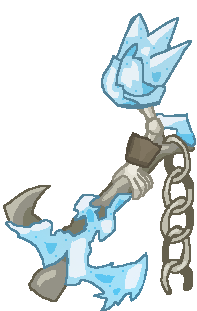
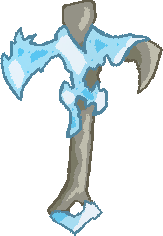
Updated anchor art and fixed networking bug.

diff --git a/NPCs/Rognir/RognirBossAnchor.cs b/NPCs/Rognir/RognirBossAnchor.cs
@@ -2,6 +2,7 @@
 using Microsoft.Xna.Framework.Graphics;
 using System;
 using System.Collections.Generic;
+using System.IO;
 using System.Linq;
 using System.Text;
 using System.Threading.Tasks;
@@ -17,11 +18,6 @@ namespace Rognir.NPCs.Rognir
 		private const float anchDashMaxSpeed = 15.0f;		// Maximum speed of the dash.
 		private const int anchDashCooldown = 30;			// Cooldown between dashes.
 
-		public float dashTimer				// Countdown until dash is complete.
-		{
-			get => npc.localAI[0];
-			set => npc.localAI[0] = value;
-		}
 		public float dashStartTimer			// Countdown until stop spinning and start dash.
 		{
 			get => npc.ai[1];
@@ -38,6 +34,8 @@ namespace Rognir.NPCs.Rognir
 			set => npc.ai[3] = value;
 		}
 
+		public int dashTimer = 0;
+
 		public override void SetStaticDefaults()
 		{
 			DisplayName.SetDefault("Anchor of Rognir");
@@ -52,8 +50,8 @@ namespace Rognir.NPCs.Rognir
 			npc.damage = 50;
 			npc.defense = 70;
 			npc.knockBackResist = 0f;
-			npc.width = 179;
-			npc.height = 311;
+			npc.width = 163;
+			npc.height = 236;
 			npc.lavaImmune = true;
 			npc.noGravity = true;
 			npc.noTileCollide = true;
@@ -115,7 +113,6 @@ namespace Rognir.NPCs.Rognir
 				{
 					npc.rotation += 2 * (float)Math.PI / 30f;
 					dashStartTimer--;
-					npc.netUpdate = true;
 				}
 				else
 				{
@@ -164,6 +161,15 @@ namespace Rognir.NPCs.Rognir
 			{
 				damage += 10;
 			}
+		}
+
+		public override void SendExtraAI(BinaryWriter writer)
+		{
+			writer.Write(dashTimer);
+		}
+		public override void ReceiveExtraAI(BinaryReader reader)
+		{
+			dashTimer = reader.ReadInt32();
 		}
 	}
 }
